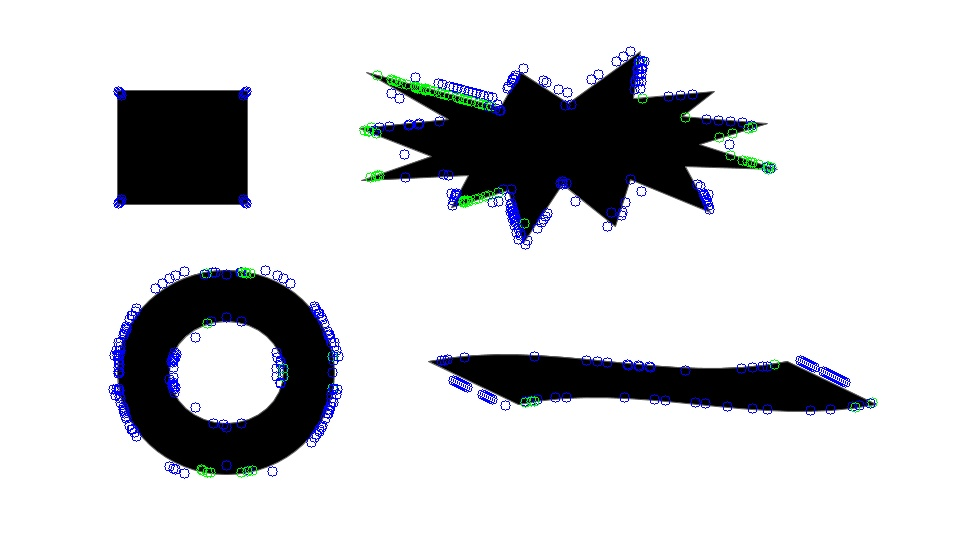
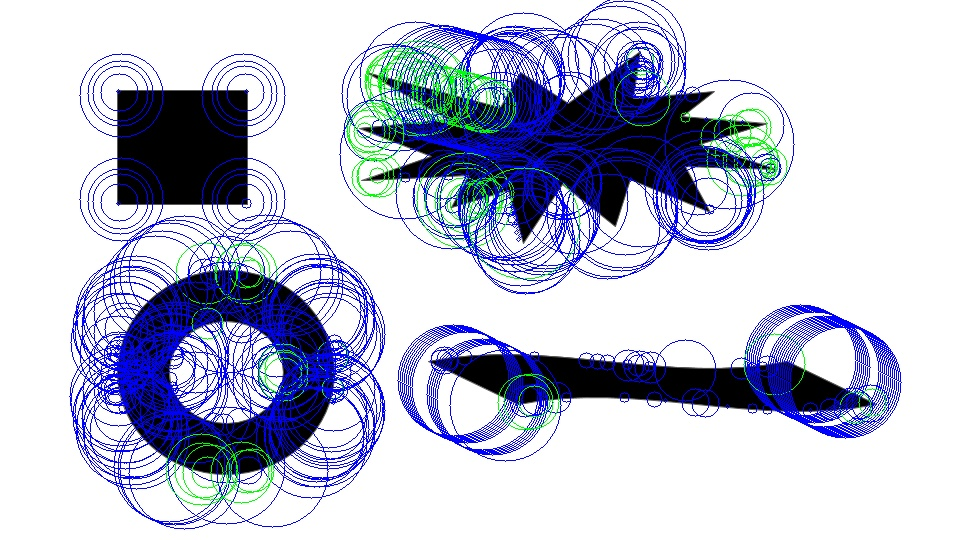
rest

diff --git a/a2/assignment2.py b/a2/assignment2.py
@@ -4,6 +4,8 @@ import numpy as np
 import skimage.morphology
 from scipy import ndimage
 from scipy.signal import argrelextrema
+import matplotlib.pyplot as plt
+
 np.seterr(divide='ignore', invalid='ignore')
 
 #Question 1a
@@ -64,42 +66,61 @@ def LoG(file, k, sigma, layers, threshold):
   gray = cv2.cvtColor(img, cv2.COLOR_BGR2GRAY)
   img_smooth = gray
   sigmas = (np.ones(layers) * k) ** (np.arange(layers))
-  response = np.zeros((img.shape[0], img.shape[1], len(sigmas)))
+  LoG = np.zeros((img.shape[0], img.shape[1], len(sigmas)))
 
+  #Convolve the image with different laplacian of gaussian
   for i in range(len(sigmas)):
     result = ndimage.gaussian_laplace(img_smooth, sigma=sigmas[i])
-    response[:,:,i] = sigmas[i]**2 * result
+    LoG[:,:,i] = sigmas[i]**2 * result
   
-  for x in range(2,img.shape[0]-1):
-    for y in range(2,img.shape[1]-1):
-      DoGs = response[x,y,:]
+
+  #Find local extreme in both scales and space
+  for x in range(1,img.shape[0]-1):
+    for y in range(1,img.shape[1]-1):
+
+      DoGs = LoG[x,y,:]
       maximas = argrelextrema(DoGs, np.greater)[0]
       minimas = argrelextrema(DoGs, np.less)[0]
 
       for index in maximas:
         if np.abs(DoGs[index]) < threshold:
           continue
-        top_layer = response[x-1:x+2,y-1:y+2,index+1].flatten()
-        current_layer = response[x-1:x+2,y-1:y+2,index].flatten()
-        bottom_layer = response[x-1:x+2,y-1:y+2,index-1].flatten()
+        top_layer = LoG[x-1:x+2,y-1:y+2,index+1].flatten()
+        current_layer = LoG[x-1:x+2,y-1:y+2,index].flatten()
+        bottom_layer = LoG[x-1:x+2,y-1:y+2,index-1].flatten()
         cube = np.concatenate((top_layer,current_layer,bottom_layer))
         new_cube = np.delete(cube,[13])
         difference = np.ones(len(new_cube)) * DoGs[index] - new_cube
         if min(difference)>0:
-          cv2.circle(img,(y,x),int(5),(255,0,0),1)
+          cv2.circle(img,(y,x),int(np.sqrt(2)*(index*2)),(255,0,0),1)
       
       for index in minimas:
         if np.abs(DoGs[index]) < threshold:
           continue
-        top_layer = response[x-1:x+2,y-1:y+2,index+1].flatten()
-        current_layer = response[x-1:x+2,y-1:y+2,index].flatten()
-        bottom_layer = response[x-1:x+2,y-1:y+2,index-1].flatten()
+        top_layer = LoG[x-1:x+2,y-1:y+2,index+1].flatten()
+        current_layer = LoG[x-1:x+2,y-1:y+2,index].flatten()
+        bottom_layer = LoG[x-1:x+2,y-1:y+2,index-1].flatten()
         cube = np.concatenate((top_layer,current_layer,bottom_layer))
         new_cube = np.delete(cube,[13])
         difference = np.ones(len(new_cube)) * DoGs[index] - new_cube
         if max(difference)<0:
-          cv2.circle(img,(y,x),int(5),(0,255,0),1)
-  cv2.imwrite('q1_data/LoG.jpg', img)
+          cv2.circle(img,(y,x),int(np.sqrt(2)*(index*2)),(0,255,0),1)
+  cv2.imwrite('q1_data/LoG_{}'.format(file), img)
+
+def SURF(file, threshold):
+  img = cv2.imread(file)
+  surf = cv2.xfeatures2d.SURF_create(threshold)
+  kp,des = surf.detectAndCompute(img,None)
+  img2 = cv2.drawKeypoints(img,kp,None,(0,0,255),4)
+  cv2.imwrite('q1_data/SURF_{}'.format(file), img2)
+
+def SIFT(file, threshold):
+  img = cv2.imread(file)
+  sift = cv2.xfeatures2d.SIFT_create(threshold)
+  kp,des = sift.detectAndCompute(img,None)
+  img2 = cv2.drawKeypoints(img,kp,None,(0,0,255),4)
+  cv2.imwrite('q1_data/SIFT_{}'.format(file), img2)
+
 
 if __name__ == '__main__':
 # #Question 1a
@@ -124,48 +145,11 @@ if __name__ == '__main__':
 #           cv2.circle(img,(y,x),2,(255,0,0),1)
 #     cv2.imwrite('q1_data/nms_B_{}.jpg'.format(i), img)
 #Question 1c
-  LoG('synthetic.png', 1.1, 2.0, 30, 20)
-
-  # # Read image
-  # im = cv2.imread("synthetic.png")
-
-  # # Setup SimpleBlobDetector parameters.
-  # params = cv2.SimpleBlobDetector_Params()
-
-  # # Change thresholds
-  # params.minThreshold = 10
-  # params.maxThreshold = 200
+  # LoG('synthetic.png', 1.1, 1.3, 40, 20)
+  # LoG('building.jpg', 1.1, 1.3, 40, 2500)
+  SURF('building.jpg', 9000)
+  SURF('synthetic.png', 5000)
+  SIFT('building.jpg', 50000)
+  SIFT('synthetic.png', 200)
 
 
-  # # Filter by Area.
-  # params.filterByArea = True
-  # params.minArea = 1500
-
-  # # Filter by Circularity
-  # params.filterByCircularity = True
-  # params.minCircularity = 0.1
-
-  # # Filter by Convexity
-  # params.filterByConvexity = True
-  # params.minConvexity = 0.87
-
-  # # Filter by Inertia
-  # params.filterByInertia = True
-  # params.minInertiaRatio = 0.01
-
-  # # Create a detector with the parameters
-  # detector = cv2.SimpleBlobDetector(params)
-
-
-  # # Detect blobs.
-  # keypoints = detector.detect(im)
-
-  # # Draw detected blobs as red circles.
-  # # cv2.DRAW_MATCHES_FLAGS_DRAW_RICH_KEYPOINTS ensures
-  # # the size of the circle corresponds to the size of blob
-
-  # im_with_keypoints = cv2.drawKeypoints(im, keypoints, np.array([]), (0,0,255), cv2.DRAW_MATCHES_FLAGS_DRAW_RICH_KEYPOINTS)
-
-  # # Show blobs
-  # cv2.imshow("Keypoints", im_with_keypoints)
-  # cv2.waitKey(0)
